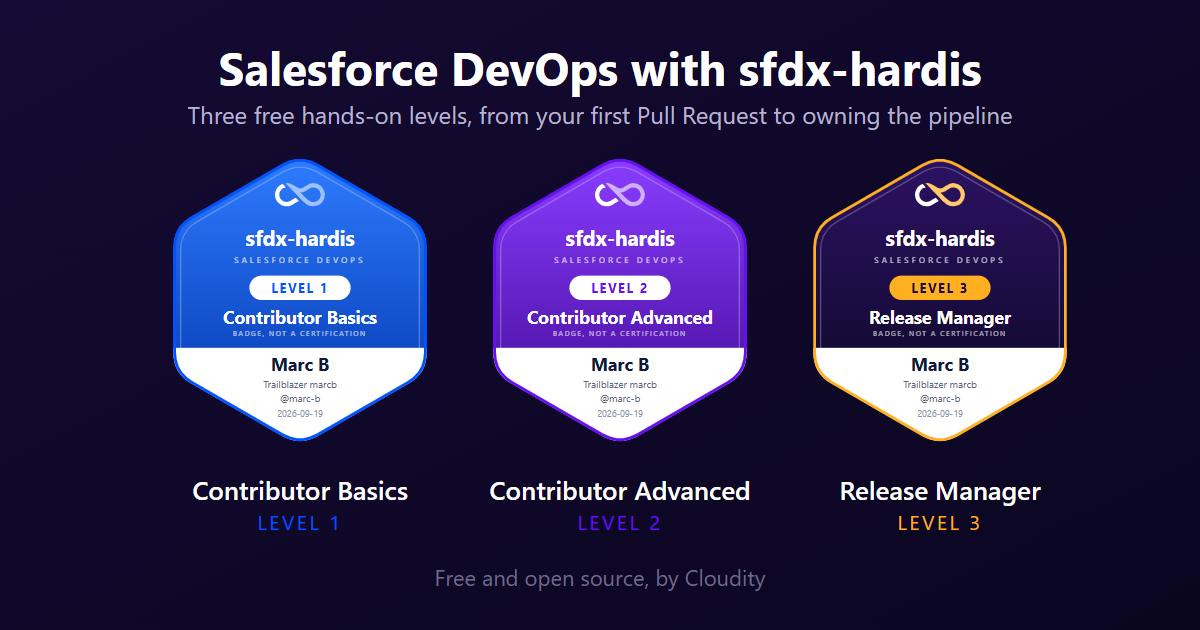
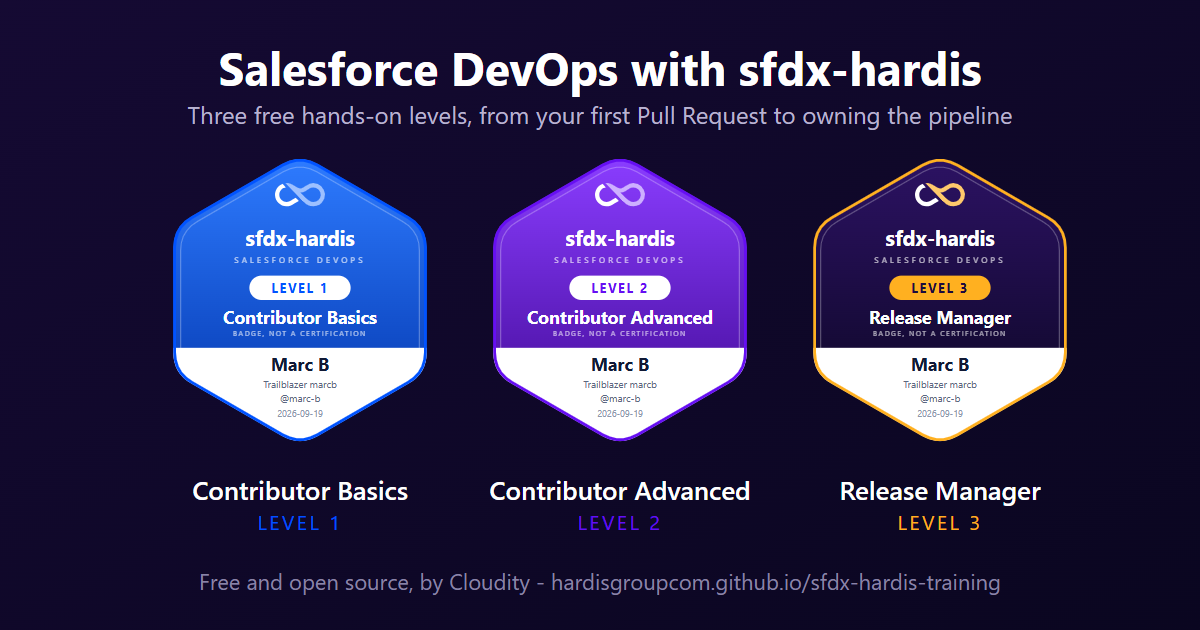
feat(badges): a LinkedIn post already written, and a picture to post the badge full size (#38)
* feat(badges): a LinkedIn post already written, and a picture to post the badge full size

- The preview of a badge page says which badge was earned, not only the name
- The share card is redrawn to read as a thumbnail
- The LinkedIn button opens a post with the text written, in the language of the page
- Each holder gets a square picture, shown on their page with a download button and the steps to attach it

* feat(badges): the course URL on every share card

Changed region(s): [[0.1542, 0.9048, 0.8325, 0.9349]]

diff --git a/site-overrides/main.html b/site-overrides/main.html
@@ -65,7 +65,8 @@
     page was first shared needs a pass through their Post Inspector to show.
   -#}
   {% set social = (page.meta | d({}, true)).social | d("_assets/social/course.png") %}
-  {% set share_title = (page.meta | d({}, true)).title | d(page.title | d(config.site_name), true) %}
+  {#- A badge page is titled with a name; its share says which badge it is -#}
+  {% set share_title = (page.meta | d({}, true)).social_title | d((page.meta | d({}, true)).title | d(page.title | d(config.site_name), true), true) %}
   {% set share_text = (page.meta | d({}, true)).description | d(config.site_description, true) %}
   <meta property="og:type" content="website">
   <meta property="og:site_name" content="{{ config.site_name }}">

diff --git a/site-theme/stylesheets/extra.css b/site-theme/stylesheets/extra.css
@@ -484,3 +484,12 @@ body.sfh-lightbox-open {
   margin-right: 0.5rem;
   vertical-align: middle;
 }
+
+/*
+ * The post a badge page offers to copy. It is prose in a code block, for the
+ * copy button, so it wraps like prose instead of scrolling sideways.
+ */
+.badge-post pre code {
+  white-space: pre-wrap;
+  word-break: break-word;
+}

diff --git a/CHANGELOG.md b/CHANGELOG.md
@@ -12,6 +12,7 @@ a day, newest first, and a change goes under the date of the day it is made.
 - New **Update my course** in the Training menu of every level: brings the course changes made since you forked, through a Pull Request into `integration`, without losing your work.
 - Every training command, and **Where am I?**, tells you when your fork is missing course changes it runs (lab pages, translations, the site and badges are ignored).
 - Reset this level keeps the certificate keys of Lab 3.1, so a Level 3 pipeline still logs in to its orgs after a reset.
+- Badge pages: the LinkedIn button opens a post already written, the preview says which badge was earned, and a square picture can be downloaded to post the badge full size.
 
 ## 2026-09-23
 
